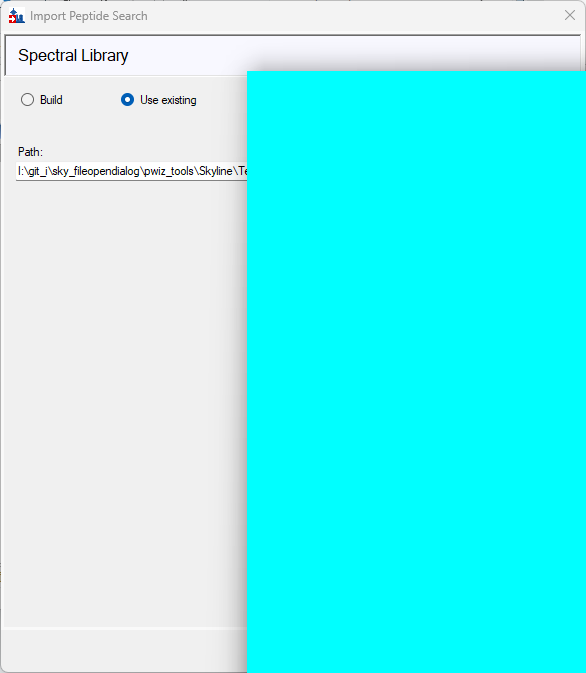
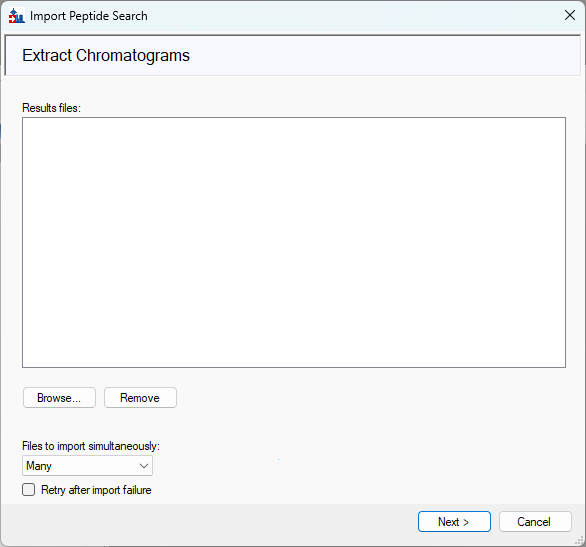
Cleaned up connector form screenshots captured by McpTutorialTest
* Split IFormElement.CaptureImage into activate then capture, polling off
  the UI thread until the form reaches the foreground (up to 500ms) so a
  window still over it is not redacted as a cyan block
* Added User32.GetForegroundWindow for that poll (bumped CodeInspectionTest
  DllImport count)
* Flushed the form's pending repaint (Form.Update) before grabbing so a
  wizard page is not captured mid-transition
* Regenerated DIAtoSRM s-01..s-03 with the clean captures

Claude-Session: https://claude.ai/code/session_01K2RZBfZR5aXuF2KBcs2BqV

diff --git a/pwiz_tools/Skyline/ToolsUI/UiElement.cs b/pwiz_tools/Skyline/ToolsUI/UiElement.cs
@@ -24,6 +24,7 @@ using System.Globalization;
 using System.Linq;
 using System.Reflection;
 using System.Text.RegularExpressions;
+using System.Threading;
 using System.Windows.Forms;
 using JetBrains.Annotations;
 using Newtonsoft.Json.Linq;
@@ -1214,13 +1215,38 @@ namespace pwiz.Skyline.ToolsUI
             return JsonUiService.ExecuteAction(action, element, value);
         }
 
+        // How long to wait (ms), and how often to re-check, for the form to reach the foreground before
+        // grabbing the screen. The wait stops as soon as the form is in front; the cap just bounds a refused
+        // activation.
+        private const int ACTIVATE_POLL_MILLIS = 25;
+        private const int ACTIVATE_SETTLE_MAX_MILLIS = 500;
+
         // Activates the form and captures it (redacting any sensitive regions), as a right-click "capture
-        // screenshot" would. Runs on the UI thread.
-        public System.Drawing.Bitmap CaptureImage() => InvokeOnUiThread(() =>
+        // screenshot" would. Called off the UI thread (the connector pipe thread, or a test thread). Bringing
+        // the window to the front is processed by the UI thread's message loop, so the activation and the
+        // capture are two separate UI-thread trips: in between, this off-UI caller releases the UI thread and
+        // polls until the form's top-level window is actually the foreground window -- stopping the moment it
+        // is, or after the cap if activation was refused. Capturing before the form is on top would leave any
+        // window still over it to be redacted (a cyan block) by CaptureAndRedact.
+        public System.Drawing.Bitmap CaptureImage()
         {
-            ScreenCapture.ActivateForm(Form);
-            return ScreenCapture.CaptureAndRedact(ScreenCapture.GetWindowRectangle(Form), Form);
-        });
+            var topLevelHandle = InvokeOnUiThread(() =>
+            {
+                ScreenCapture.ActivateForm(Form);
+                return (pwiz.Common.SystemUtil.FormUtil.FindTopLevelOwner(Form) ?? (Control) Form).Handle;
+            });
+            for (int waited = 0;
+                 waited < ACTIVATE_SETTLE_MAX_MILLIS && User32.GetForegroundWindow() != topLevelHandle;
+                 waited += ACTIVATE_POLL_MILLIS)
+                Thread.Sleep(ACTIVATE_POLL_MILLIS);
+            return InvokeOnUiThread(() =>
+            {
+                // Flush any pending repaint so the screen grab reflects the form's current state rather than a
+                // stale frame (e.g. a wizard page captured mid-transition still showing the previous page).
+                Form.Update();
+                return ScreenCapture.CaptureAndRedact(ScreenCapture.GetWindowRectangle(Form), Form);
+            });
+        }
 
         /// <summary>Invokes a menu item on this form's main menu by its '>'-separated path (e.g. "File &gt;
         /// Import &gt; Peptide Search").</summary>

diff --git a/pwiz_tools/Skyline/TestTutorial/McpTutorialTest.cs b/pwiz_tools/Skyline/TestTutorial/McpTutorialTest.cs
@@ -92,6 +92,17 @@ namespace pwiz.SkylineTestTutorial
         }
 
         /// <summary>
+        /// Waits until the form shows a control of the given type -- e.g. a wizard page's UserControl that swaps
+        /// in after a transition (clicking "Next" can advance the page asynchronously). A screenshot taken right
+        /// after then captures the settled page rather than a mid-transition frame. Uses the connector's
+        /// GetControls, which lists only the controls currently shown (a not-yet-displayed page is not listed).
+        /// </summary>
+        protected void WaitForControl(IFormElement form, string controlType)
+        {
+            WaitForCondition(() => form.GetControls().Any(control => control.Path.Type == controlType));
+        }
+
+        /// <summary>
         /// Performs a connector action that is NOT expected to open a modal dialog, then waits for the posted
         /// (fire-and-forget) action to finish -- i.e. until <see cref="IJsonToolService.UnfinishedActionCount"/>
         /// returns to the value it had before. The count is incremented synchronously as the action is posted

diff --git a/pwiz_tools/Skyline/TestTutorial/DiaToSrmTutorialTest.cs b/pwiz_tools/Skyline/TestTutorial/DiaToSrmTutorialTest.cs
@@ -146,7 +146,9 @@ namespace pwiz.SkylineTestTutorial
             WaitForAction(() => wizard.ClickButton(GetLocalizedText<ImportPeptideSearchDlg>("btnNext")));
 
             // Extract Chromatograms page: nothing to add here (results are imported later), so just capture it.
-            // Clicking Next here would prompt to continue without results; that is driven when Step 1.3+ is added.
+            // Clicking Next loaded the library and swaps this page in asynchronously, so wait for it before the
+            // screenshot. Clicking Next here would prompt to continue without results; that is driven in Step 1.3+.
+            WaitForControl(wizard, nameof(ImportResultsDIAControl));
             PauseForScreenShot(wizard, "Extract Chromatograms"); // s-03
         }
     }

diff --git a/pwiz_tools/Shared/CommonUtil/SystemUtil/PInvoke/User32.cs b/pwiz_tools/Shared/CommonUtil/SystemUtil/PInvoke/User32.cs
@@ -265,6 +265,9 @@ namespace pwiz.Common.SystemUtil.PInvoke
         [DllImport("user32.dll")]
         public static extern bool SetForegroundWindow(IntPtr hWnd);
 
+        [DllImport("user32.dll")]
+        public static extern IntPtr GetForegroundWindow();
+
         [DllImport("user32.dll", CharSet = CharSet.Auto)]
         public static extern bool SetCapture(IntPtr hWnd);
 

diff --git a/pwiz_tools/Skyline/Test/CodeInspectionTest.cs b/pwiz_tools/Skyline/Test/CodeInspectionTest.cs
@@ -607,7 +607,7 @@ namespace pwiz.SkylineTest
                 { typeof(Kernel32), 8 },
                 { typeof(Shell32), 1 },
                 { typeof(Shlwapi), 1 },
-                { typeof(User32), 38 },
+                { typeof(User32), 39 },
 
                 { typeof(DwmapiTest), 4 },
                 { typeof(Gdi32Test), 1 },